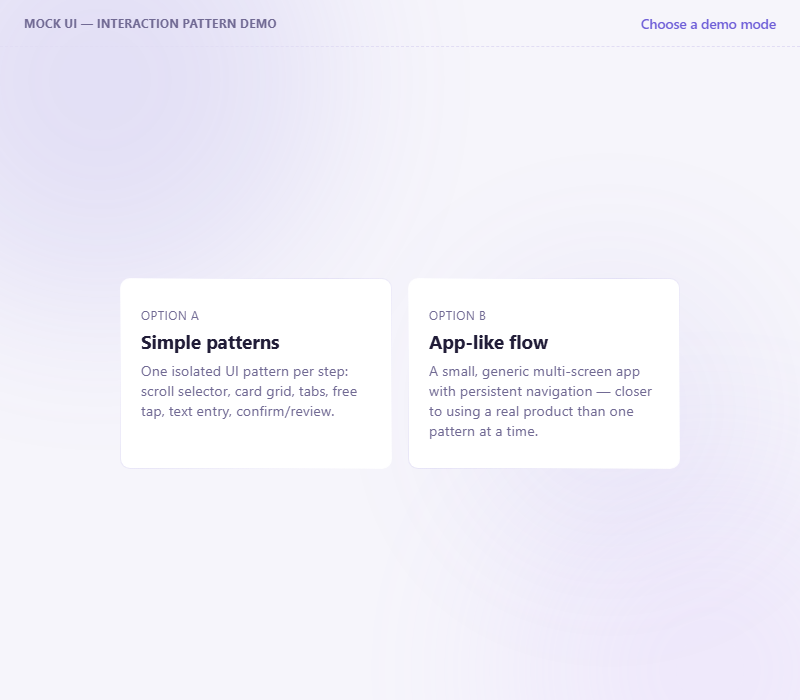
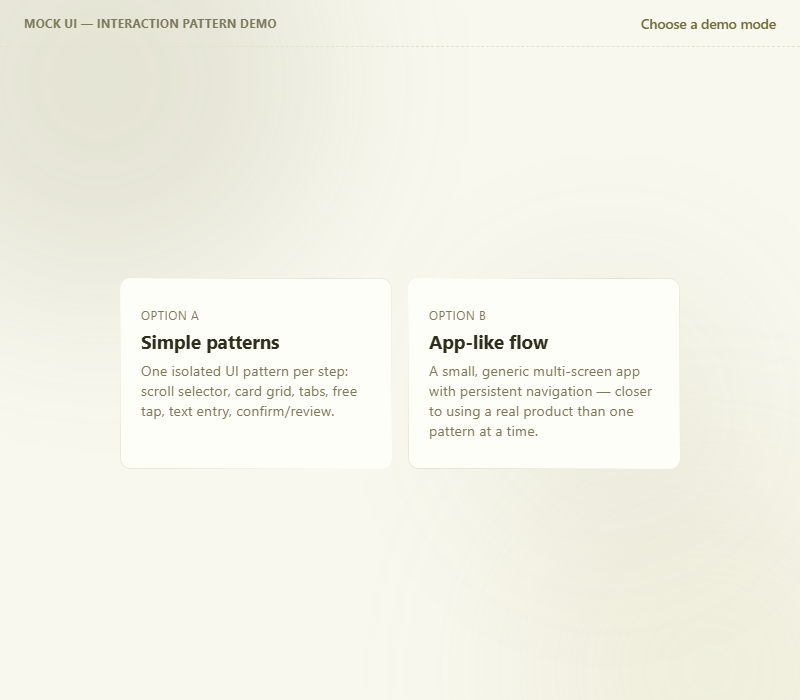
Rework palette around #e1e4c9 instead of violet
Replaces the violet accent (read as generic/AI-generated) with a
muted sage-cream palette built from #e1e4c9: olive accent, warm dark
text, cream surfaces. Same glow-blob and shine-border treatment,
just re-colored.

diff --git a/code/mock/style.css b/code/mock/style.css
@@ -1,17 +1,17 @@
 :root {
-  --bg: #f6f5fb;
-  --surface: #ffffff;
-  --surface-2: #eeecf7;
-  --text: #211d38;
-  --muted: #716a94;
-  --accent: #6f5fd8;
+  --bg: #f8f8ef;
+  --surface: #fefef9;
+  --surface-2: #d8dab8;
+  --text: #302f1e;
+  --muted: #7d795d;
+  --accent: #6e6b39;
   --accent-contrast: #ffffff;
-  --border: #e1ddf4;
+  --border: #e1e4c9;
   --shine: rgba(255, 255, 255, 0.9);
-  --shine-dim: rgba(111, 95, 216, 0.1);
+  --shine-dim: rgba(110, 107, 57, 0.12);
   --surface-shine: linear-gradient(var(--surface), var(--surface)) padding-box,
     linear-gradient(135deg, var(--shine), var(--shine-dim) 45%, var(--shine) 100%) border-box;
-  --danger: #c93b56;
+  --danger: #a8483a;
   --radius: 10px;
 }
 
@@ -33,8 +33,8 @@
 .glow-2 {
   width: 380px; height: 380px;
   bottom: -160px; right: -100px;
-  background: #c9a8ff;
-  opacity: 0.16;
+  background: #c9c48a;
+  opacity: 0.18;
   animation: glow-float-2 20s ease-in-out infinite;
 }
 .glow-3 {
